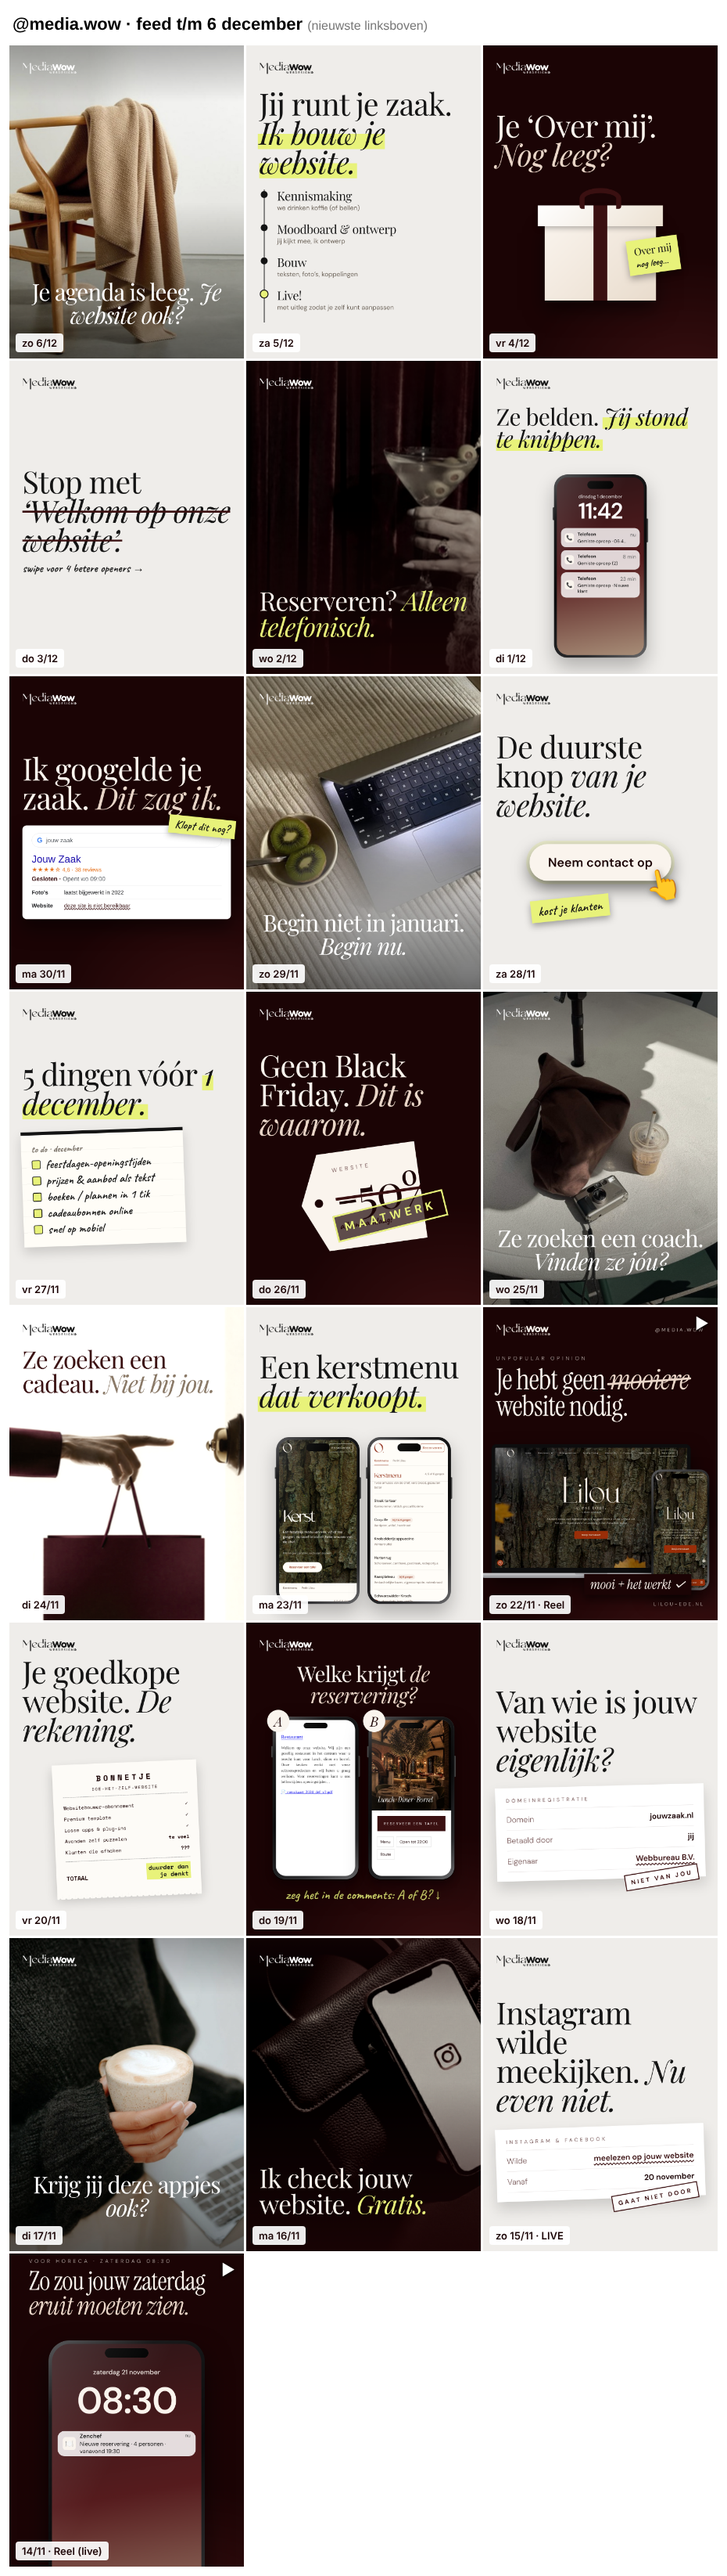
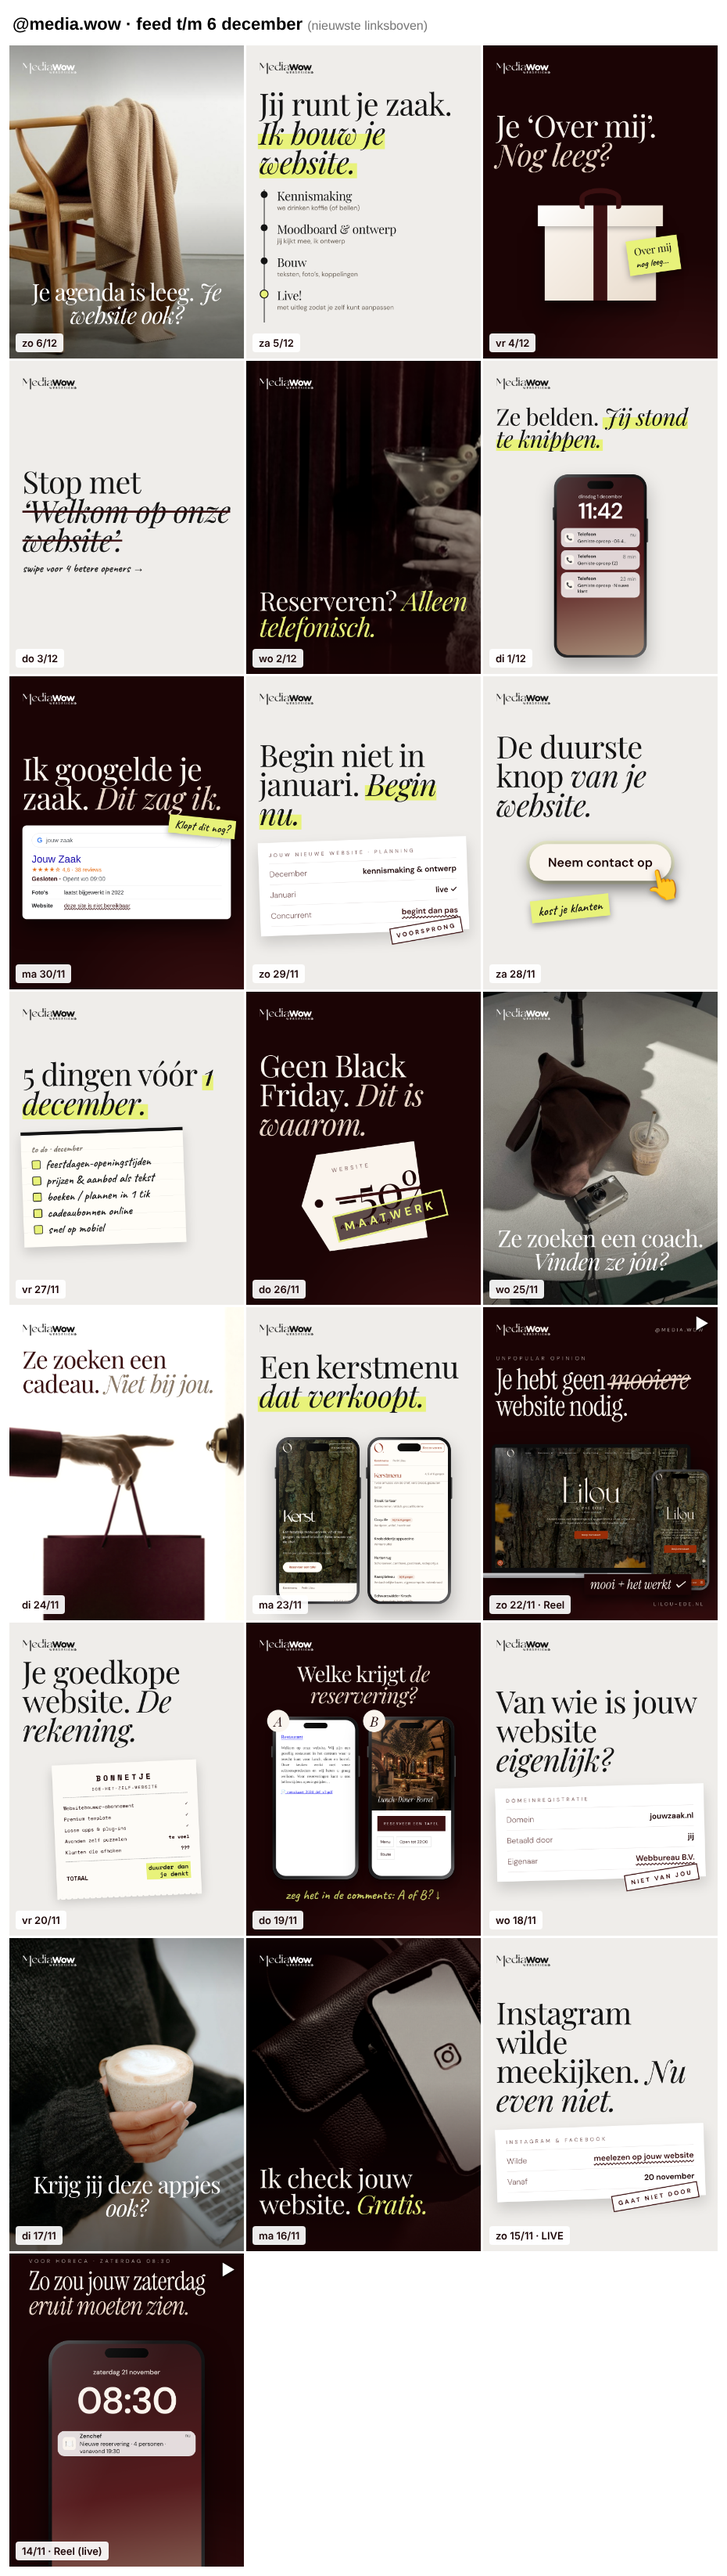
Begin-nu cover: beige met planningskaart
Claude-Session: https://claude.ai/code/session_01RBQ5c9Pv2G8CobvSf5vDwJ

Changed region(s): [[0.3118, 0.2479, 0.686, 0.4029]]

diff --git a/instagram/slides-week2.js b/instagram/slides-week2.js
@@ -311,9 +311,15 @@ Zeg liever wat ze krijgen:
   {
     id: '7-zo-begin-nu',
     slides: [
-      { theme: 'photo', cls: 'lwc', html: `
-        <img class="bg-photo" src="{{img:canva/foto-094.jpg}}" style="object-position:50% 60%"><div class="bg-fade"></div>
-        <div class="mw-ttl"><h1>Begin niet in januari. <em>Begin nu.</em></h1></div>` },
+      { theme: 'greige', html: `
+        <h1 class="hero">Begin niet in januari. <em><span class="mark">Begin nu.</span></em></h1>
+        <div class="doc" style="transform:rotate(-2deg)">
+          <div class="doc-h">Jouw nieuwe website · planning</div>
+          <div class="doc-r"><span>December</span><b>kennismaking & ontwerp</b></div>
+          <div class="doc-r"><span>Januari</span><b>live ✓</b></div>
+          <div class="doc-r flagged"><span>Concurrent</span><b>begint dan pas</b></div>
+          <div class="doc-stamp">Voorsprong</div>
+        </div>` },
       { theme: 'dark', html: `
         <div class="kicker">Waarom nu?</div>
         <h1 class="lg">In januari wil iedereen tegelijk <em>een nieuwe website.</em></h1>
